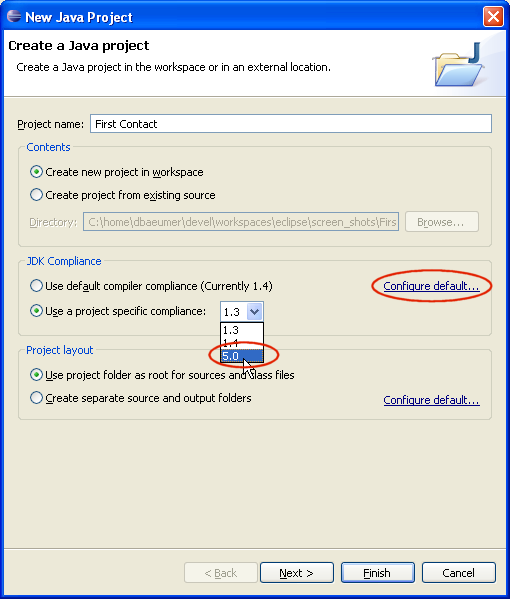
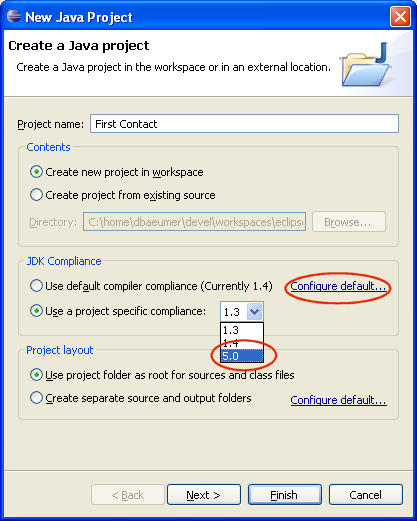
Converted gifs to png

diff --git a/bundles/org.eclipse.jdt.doc.user/whatsNew/jdt_whatsnew.html b/bundles/org.eclipse.jdt.doc.user/whatsNew/jdt_whatsnew.html
@@ -1168,13 +1168,11 @@ release of Eclipse since 3.0. It is broken into the several sections:</p>
 			in the Java editor, the associated externalized value is shown in a
 			hover:
 			<p><img alt="Picture of Externalize String hover"
-				title="Externalize String Hover" src="images/nls-hover.gif"
-				width="332" height="109"></p>
+				title="Externalize String Hover" src="images/nls-hover.png"></p>
 			<p><b>Ctrl+Click</b> on it to navigate directly to the entry in the
 			corresponding Java properties file:</p>
 			<p><img alt="Picture of Ctrl+Click in Java editor"
-				title="Ctrl+Click in Java Editor" src="images/ctrl-click.gif"
-				width="330" height="88"></p>
+				title="Ctrl+Click in Java Editor" src="images/ctrl-click.png"></p>
 			</td>
 		</tr>
 		<tr>
@@ -1193,7 +1191,7 @@ release of Eclipse since 3.0. It is broken into the several sections:</p>
 			referenced.
 			<p><img alt="Picture showing property key kyperlinking"
 				title="Property Key Hyperlinking"
-				src="images/property-key-navigation.gif" width="444" height="93"></p>
+				src="images/property-key-navigation.png"></p>
 			</td>
 		</tr>
 		<tr>

diff --git a/bundles/org.eclipse.jdt.doc.user/reference/ref-156.htm b/bundles/org.eclipse.jdt.doc.user/reference/ref-156.htm
@@ -1073,7 +1073,7 @@
         </tr>
         <tr>
           <td valign="middle" align="center">
-            <img src="../images/org.eclipse.jdt.ui/obj16/collapsed.gif"  alt="collapsed"><br>
+            <img src="../images/org.eclipse.jdt.ui/obj16/collapsed.png"  alt="collapsed"><br>
           </td>
           <td valign="top" width="90%">
             collapsed<br>
@@ -1081,7 +1081,7 @@
         </tr>
         <tr>
           <td valign="middle" align="center">
-            <img src="../images/org.eclipse.jdt.ui/obj16/expanded.gif"  alt="expanded"><br>
+            <img src="../images/org.eclipse.jdt.ui/obj16/expanded.png"  alt="expanded"><br>
           </td>
           <td valign="top" width="90%">
             expanded<br>
